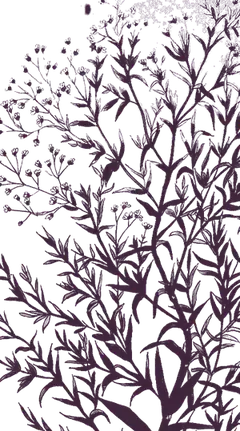
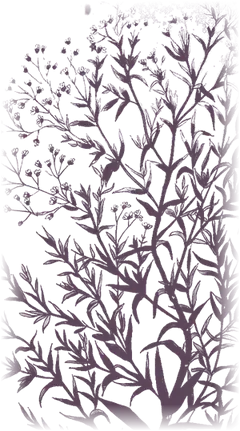
Fixer Wave 5: 13 dapatan judge dibaiki (deeplink clip, feed adaptif+hati async, focus trap inert, ros bebas butang, gutter desktop, sprig feather, chip nowrap, burst watercolor, ogImage baru, rsvp botani, lining-nums, kaunter hati, cover bl)

diff --git a/landing.js b/landing.js
@@ -182,6 +182,10 @@ function svgIkon(jenis) {
     // ditambah. Dulu: smooth-scroll ke 8px SELEPAS fade bermula = gerakan skrol
     // kelihatan bertindih dengan crossfade, salah satu punca rasa "mengejut".
     if (!adaHash) { try { window.scrollTo(0, 0); } catch (e) {} }
+    // Belt-and-braces deep-link: anchor-scroll asli browser boleh sempat menyimpan
+    // skrol tersembunyi DALAM .lp-kad (overflow) sebelum CSS clip terpakai; sifarkan
+    // supaya kiraan offsetTop di bawah tak tertolak ~1100px.
+    try { const kadEl = document.querySelector(".lp-kad"); if (kadEl) kadEl.scrollTop = 0; } catch (e) {}
     cover.classList.add("is-buka");
     // Buka gate urutan hero dramatik: CSS hero (.lp-buka .lp-hero...) hanya animate
     // SELEPAS ini, jadi nama zoom + tarikh main TEPAT bila cover naik, bukan di
@@ -243,19 +247,22 @@ function svgIkon(jenis) {
     //          menyusul (delay 600ms), hero nama zoom (gate .lp-buka). Settle ~3000ms.
     try { cover.classList.add("is-pecah"); } catch (e) {}
     // Gelombang 1 (segera): 10 bunga rapat, terbang laju (dur 2200ms, terbang ~58%).
+    // KENAPA semua aset watercolor (.lp-rb-*/.lp-bouquet-*), bukan floret vektor
+    // .bunga--*: atas mauve gelap floret flat baca macam sticker kartun sebelah
+    // watercolor (dapatan judge visual) - satu bahasa visual sahaja dalam burst.
     taburGelombang({
       n: 10, jMin: 130, jSpan: 130, szMin: 18, szSpan: 16,
       dur: 2200, delayBase: 0, stagger: 20,
-      aset: ["bunga--aBright", "bunga--bBright", "bunga--aRose", "bunga--bRose", "lp-bouquet-a",
-             "bunga--aMid", "bunga--bMid", "lp-bouquet-b", "bunga--bBright", "bunga--aRose"]
+      aset: ["lp-rb-blush", "lp-rb-poppy", "lp-rb-regalis", "lp-rb-clematis", "lp-bouquet-a",
+             "lp-rb-rosburg", "lp-rb-babys", "lp-bouquet-b", "lp-rb-blush", "lp-rb-poppy"]
     });
     // Gelombang 2 (180ms): 24 bunga jauh sampai tepi, terbang ~1500ms, tahan penuh.
     window.setTimeout(function () {
       taburGelombang({
         n: 24, jMin: 260, jSpan: 200, szMin: 20, szSpan: 36,
         dur: 2600, delayBase: 0, stagger: 14,
-        aset: ["bunga--aBright", "bunga--bBright", "bunga--aMid", "bunga--bMid", "bunga--aRose",
-               "bunga--bRose", "bunga--aDeep", "bunga--bDeep", "lp-bouquet-a", "lp-bouquet-b"]
+        aset: ["lp-rb-blush", "lp-rb-poppy", "lp-rb-regalis", "lp-rb-rosburg", "lp-rb-clematis",
+               "lp-rb-babys", "lp-rb-bouquet3", "lp-rb-regalis", "lp-bouquet-a", "lp-bouquet-b"]
       });
     }, 180);
     // Momen penuh dahulu, kad masuk pada 1800ms (boleh dipintas tap kedua).
@@ -642,17 +649,22 @@ muzikApi = (function muzikInit() {
     if (!papar.length) return;   // tiada ucapan: feed kekal hidden, seksyen masih lengkap
 
     // Tally ♥ dari /sayang: satu dokumen = satu like (corak sama ucapan.js, cuma
-    // one-shot getDocs sebab landing tak perlu realtime). Gagal tally = feed tetap
-    // jalan tanpa kiraan (jangan korbankan feed kerana kaunter hiasan).
-    const sayangKira = new Map();
-    try {
-      const semuaSayang = await hadMasa(getDocs(collection(db, "sayang")), 8000);
-      semuaSayang.forEach(function (d) {
-        const id = (d.data() || {}).ucapanId;
-        if (!id) return;
-        sayangKira.set(id, (sayangKira.get(id) || 0) + 1);
-      });
-    } catch (e) { console.error("Gagal tally sayang:", e); }
+    // one-shot getDocs sebab landing tak perlu realtime). KENAPA TIDAK di-await
+    // sebelum render: getDocs kedua ini kerap tergantung di WebKit (webchannel),
+    // dan menunggunya melewatkan feed 8+ saat pada ~separuh muatan iPhone. Kad
+    // dirender DULU, ♥ ditampal kemudian bila tally tiba (kaunter hiasan sahaja,
+    // timeout pendek 3s pun cukup).
+    const janjiSayang = hadMasa(getDocs(collection(db, "sayang")), 3000)
+      .then(function (semuaSayang) {
+        const kira = new Map();
+        semuaSayang.forEach(function (d) {
+          const id = (d.data() || {}).ucapanId;
+          if (!id) return;
+          kira.set(id, (kira.get(id) || 0) + 1);
+        });
+        return kira;
+      })
+      .catch(function (e) { console.error("Gagal tally sayang:", e); return new Map(); });
 
     senarai.innerHTML = "";
     papar.forEach(function (u, i) {
@@ -673,19 +685,25 @@ muzikApi = (function muzikInit() {
       nama.className = "lp-buku-nama";
       nama.textContent = u.nama;             // XSS selamat
       bawah.appendChild(nama);
-      const kira = sayangKira.get(u.id) || 0;
-      if (kira > 0) {                        // sorok bila 0: kad tanpa like kekal bersih
-        const sayang = document.createElement("span");
-        sayang.className = "lp-buku-sayang";
-        sayang.textContent = "♥ " + kira;
-        sayang.setAttribute("aria-label", kira + " tanda sayang");
-        bawah.appendChild(sayang);
-      }
+      bawah.dataset.ucapanId = u.id;         // sasaran tampalan ♥ selepas tally tiba
       kad.append(teks, bawah);
       senarai.appendChild(kad);
     });
     viewport.hidden = false;
     autoSkrol(viewport);
+
+    // Tampal ♥ secara async: kad dah kelihatan, kaunter menyusul tanpa melewatkan feed.
+    janjiSayang.then(function (sayangKira) {
+      senarai.querySelectorAll(".lp-buku-bawah").forEach(function (bawah) {
+        const kira = sayangKira.get(bawah.dataset.ucapanId) || 0;
+        if (kira <= 0) return;               // sorok bila 0: kad tanpa like kekal bersih
+        const sayang = document.createElement("span");
+        sayang.className = "lp-buku-sayang";
+        sayang.textContent = "♥ " + kira;
+        sayang.setAttribute("aria-label", kira + " tanda sayang");
+        bawah.appendChild(sayang);
+      });
+    });
   }
 
   // ---- Auto-scroll dalam bekas: rAF + scrollTop (bukan CSS translate) supaya user
@@ -819,6 +837,20 @@ muzikApi = (function muzikInit() {
 // X/overlay/Esc/postMessage pula memanggil history.back() untuk MENGGUGURKAN entri itu,
 // supaya buka-tutup berulang TIDAK menimbun entri (satu entri hidup pada satu masa).
 // Defensif sepenuhnya (semua akses history dibalut try/catch).
+// FOCUS TRAP lewat inert: aria-modal sahaja TIDAK menghalang Tab dari lari ke latar
+// (diukur 4-6 tekanan Tab bocor keluar modal). inert pada latar = fokus + klik + AT
+// semuanya terkunci dalam modal; pulih bila tutup. Defensif: elemen tiada -> senyap.
+function latarInert(on) {
+  ["lpKad", "lpDock", "lpMuzik"].forEach(function (id) {
+    try {
+      const el = document.getElementById(id);
+      if (!el) return;
+      if (on) el.setAttribute("inert", "");
+      else el.removeAttribute("inert");
+    } catch (e) {}
+  });
+}
+
 const modalHistory = (function () {
   let tutupAktif = null;   // fungsi tutup(true) modal yang sedang terbuka (dipanggil bila Back)
   let adaEntri = false;    // sudah pushState entri milik kita?
@@ -881,6 +913,7 @@ const modalHistory = (function () {
     }
     modal.hidden = false;
     kunciSkrol(true);
+    latarInert(true);   // trap fokus: latar inert, Tab berputar dalam modal sahaja
     // Tambah is-buka pada frame seterusnya supaya transition (fade + naik) main,
     // bukan lompat. Reduced-motion: CSS matikan transition -> muncul terus.
     requestAnimationFrame(function () { modal.classList.add("is-buka"); });
@@ -894,6 +927,7 @@ const modalHistory = (function () {
     sedangBuka = false;
     modal.classList.remove("is-buka");
     kunciSkrol(false);
+    latarInert(false);
     // Sorok sepenuhnya selepas transition (elak modal invisible masih tangkap klik).
     if (REDUCED.matches) { modal.hidden = true; }
     else { window.setTimeout(function () { if (!sedangBuka) modal.hidden = true; }, 260); }
@@ -971,6 +1005,7 @@ const modalHistory = (function () {
     pencetus = dari || pencetusEls[0];
     modal.hidden = false;
     kunciSkrol(true);
+    latarInert(true);   // trap fokus: latar inert, Tab berputar dalam modal sahaja
     // Tambah is-buka frame seterusnya supaya fade + naik main (reduced-motion: CSS
     // matikan transition -> muncul terus).
     requestAnimationFrame(function () { modal.classList.add("is-buka"); });
@@ -983,6 +1018,7 @@ const modalHistory = (function () {
     sedangBuka = false;
     modal.classList.remove("is-buka");
     kunciSkrol(false);
+    latarInert(false);  // WAJIB sebelum focus(): pencetus Salam Kaut duduk DALAM lpKad yang inert
     if (REDUCED.matches) { modal.hidden = true; }
     else { window.setTimeout(function () { if (!sedangBuka) modal.hidden = true; }, 260); }
     if (!fromPop) modalHistory.tutupSelesai();

diff --git a/landing.css b/landing.css
@@ -76,7 +76,12 @@ body.lp::before { display: none !important; }
     radial-gradient(120% 60% at 50% 0%, #ffffff 0%, transparent 42%),
     var(--lp-noise);
   padding: 0 var(--space-6) calc(env(safe-area-inset-bottom, 0px) + 120px);
-  overflow: hidden;   /* pastikan hiasan dalam kad tak terkeluar */
+  /* KENAPA dua nilai: hidden menjadikan kad SCROLL CONTAINER tersembunyi; anchor-scroll
+     asli browser pada deep-link hash menyimpan skrol ~1100px DALAM kad lalu semua
+     kandungan teranjak ke atas. clip memotong hiasan TANPA boleh discroll langsung;
+     hidden kekal sebagai fallback pelayar lama yang tak kenal clip. */
+  overflow: hidden;   /* pastikan hiasan dalam kad tak terkeluar (fallback) */
+  overflow: clip;
 }
 /* CAHAYA EMAS LEMBUT BERGERAK: lapisan sapuan emas sangat lembut atas kad, menyapu
    perlahan (translate ulang-alik ~26s). z-index:-1 = di ATAS latar kraft/lilac tapi
@@ -598,7 +603,11 @@ body.lp::before { display: none !important; }
    supaya momentum tak melimpah jadi skrol halaman (kehendak user: "hanya dekat section
    dia je"). Mask fade atas/bawah buat kad masuk/keluar rasa melarut, bukan terpotong. */
 .lp-buku-viewport {
-  height: 360px;
+  /* KENAPA max-height, bukan height tetap: majlis baru sebar link = ucapan sikit;
+     tinggi tetap 360px meninggalkan lubang kosong ~500px dalam panel (nampak rosak).
+     max-height = bekas mengecut ikut kandungan bila kad sedikit, dan jadi tetingkap
+     360px yang boleh skrol hanya bila kandungan melebihinya. */
+  max-height: 360px;
   overflow-y: auto;
   overscroll-behavior: contain;
   -webkit-overflow-scrolling: touch;
@@ -894,7 +903,9 @@ html:not(.lp-js) .lp-muzik { display: none; }
    glyph emas nipis WAJIB bebas bunga (aduan user: bismillah tertutup bunga). */
 .lp-bunga-cover--tr  { top: -46px; right: -40px; width: min(30vw, 130px); height: min(40.6vw, 176px); transform: rotate(9deg) scaleX(-1); }
 .lp-bunga-cover--tr2 { top: 66px; right: 30px; width: 46px; height: 46px; opacity: 0.4; transform: rotate(-8deg); }
-.lp-bunga-cover--bl  { bottom: -22px; left: -20px; width: min(42vw, 185px); height: min(54vw, 238px); transform: rotate(-8deg); }
+/* Sedikit lebih kecil + ditolak keluar: hujung daun pernah gesel penjuru kotak
+   "Tekan untuk buka" di WebKit (render hairline berbeza sikit dari chromium). */
+.lp-bunga-cover--bl  { bottom: -30px; left: -26px; width: min(39vw, 172px); height: min(50vw, 221px); transform: rotate(-8deg); }
 .lp-bunga-cover--bl2 { bottom: 74px; left: 34px; width: 50px; height: 50px; opacity: 0.4; transform: rotate(150deg); }
 .lp-bunga-cover--tl { top: -22px; left: -20px; width: min(40vw, 175px); height: min(51.4vw, 225px); transform: rotate(-9deg); }
 .lp-bunga-cover--br { bottom: -22px; right: -20px; width: min(42vw, 185px); height: min(56.8vw, 250px); transform: rotate(8deg) scaleX(-1); }
@@ -1892,7 +1903,11 @@ button.lp-dock-btn {
 .lp-b-butiran      { top: auto; bottom: -24px; right: -26px; width: min(40vw, 172px); aspect-ratio: 400/495; opacity: 0.92; }
 .lp-b-atur-kanan   { top: auto; bottom: 10px; right: -18px; width: min(34vw, 132px); aspect-ratio: 300/448; opacity: 0.92; transform: rotate(6deg); }
 .lp-b-cd-kiri      { bottom: -10px; left: -16px; width: min(34vw, 128px); aspect-ratio: 280/460; opacity: 0.9; transform: rotate(-6deg); }
-.lp-b-buku         { top: auto; bottom: -16px; left: -20px; width: min(33vw, 128px); aspect-ratio: 300/425; opacity: 0.92; }
+.lp-b-buku         { top: auto; bottom: -16px; left: -20px; width: min(30vw, 118px); aspect-ratio: 300/425; opacity: 0.92; }
+/* KENAPA padding-bottom: ros regalis dilabuh di bucu bawah-kiri panel; tanpa zon
+   kosong ini ia menutup teks butang "Lihat Semua Ucapan" di 320px (butang hampir
+   penuh lebar). Zon kosong = ros duduk BAWAH baris butang di semua lebar. */
+.lp-buku { padding-bottom: 132px; }
 .lp-b-hubungi      { top: auto; bottom: 12px; right: -14px; width: min(30vw, 112px); aspect-ratio: 280/460; opacity: 0.88; transform: scaleX(-1) rotate(8deg); }
 .lp-b-lokasi       { top: auto; bottom: 40px; left: -14px; width: min(26vw, 100px); aspect-ratio: 240/327; opacity: 0.88; transform: rotate(-3deg); }
 .lp-b-salamkaut    { top: auto; bottom: -42px; right: -20px; width: min(23vw, 92px); aspect-ratio: 300/409; opacity: 0.92; transform: rotate(-4deg); }
@@ -1923,6 +1938,14 @@ button.lp-dock-btn {
 .lp-gb { position: fixed; opacity: 0.4; transform-origin: top center; }
 .lp-gb--kiri  { top: 92px;  right: calc(50% + 196px); width: 108px; aspect-ratio: 240/431; animation: lpSwayA 9s var(--ease-in-out) infinite; }
 .lp-gb--kanan { top: 150px; left:  calc(50% + 196px); width: 108px; aspect-ratio: 240/431; transform: scaleX(-1); animation: lpSwayB 11s var(--ease-in-out) infinite; }
+/* Anchor besar desktop (dapatan judge: gutter tandus selepas sage dibuang). Menjenguk
+   dari BELAKANG kad (right/left ~50%+17Xpx < separuh lebar kad 215px, z-index 0 vs kad 1)
+   = resipi "peek" yang sama dengan etching panel. Statik (tiada sway): kepingan besar
+   yang bergoyang di tepi mata jadi distraksi, sprig kecil sahaja yang bernafas. */
+.lp-gb--kiri2  { top: 34vh; right: calc(50% + 172px); width: 212px; aspect-ratio: 800/1029; opacity: 0.55; transform: rotate(-7deg); }
+.lp-gb--kanan2 { top: 56vh; left:  calc(50% + 170px); width: 202px; aspect-ratio: 400/495;  opacity: 0.55; transform: rotate(6deg) scaleX(-1); }
+.lp-gb--kiri3  { top: 78vh; right: calc(50% + 178px); width: 158px; aspect-ratio: 300/448;  opacity: 0.5;  transform: rotate(-4deg); }
+.lp-gb--kanan3 { top: 6vh;  left:  calc(50% + 180px); width: 148px; aspect-ratio: 300/409;  opacity: 0.5;  transform: rotate(9deg); }
 @keyframes lpSwayA { 0%,100% { transform: rotate(-1.3deg); } 50% { transform: rotate(1.3deg); } }
 @keyframes lpSwayB { 0%,100% { transform: scaleX(-1) rotate(-1.2deg); } 50% { transform: scaleX(-1) rotate(1.2deg); } }
 

diff --git a/rsvp.html b/rsvp.html
@@ -22,7 +22,7 @@
   <link rel="preconnect" href="https://fonts.googleapis.com" />
   <link rel="preconnect" href="https://fonts.gstatic.com" crossorigin />
   <link href="https://fonts.googleapis.com/css2?family=Great+Vibes&family=Cormorant+Garamond:ital,wght@0,400;0,500;0,600;0,700;1,400;1,500&display=swap" rel="stylesheet" />
-  <link rel="stylesheet" href="./styles.css?v=20260815d" />
+  <link rel="stylesheet" href="./styles.css?v=20260815e" />
 
   <!-- Mod embed (?embed=1): bila rsvp.html dimuat dalam modal iframe laman jemputan,
        tambah kelas pada <html> SEGERAK (elak flash hero sebelum dimampatkan) untuk
@@ -84,9 +84,29 @@
        yang memilih laluan oklch pada token LAIN (maroon/ink/line dll dikira dalam oklch),
        kita biar token surface ini kekal hex , hex lilac ini adalah nilai muktamad yang
        dikehendaki, konsisten dengan blok tema lilac landing.css. */
+
+    /* ============ ANCHOR BOTANI (bahasa design landing di halaman borang) ============
+       Dua sentuhan watercolor sahaja, di margin, JAUH dari borang (teks mesti menang).
+       Disorok dalam mod embed: modal iframe sempit, hiasan jadi bising di situ. */
+    .rsvp-botani {
+      position: fixed; z-index: 0; pointer-events: none;
+      background-repeat: no-repeat; background-position: center; background-size: contain;
+    }
+    .rsvp-botani--atas {
+      top: -18px; right: -22px; width: min(34vw, 150px); aspect-ratio: 300/409;
+      background-image: url("./aset/bunga/botBlush.webp"); opacity: 0.85; transform: rotate(8deg) scaleX(-1);
+    }
+    .rsvp-botani--bawah {
+      bottom: -14px; left: -16px; width: min(24vw, 96px); aspect-ratio: 240/327;
+      background-image: url("./aset/bunga/sprigClematis.webp"); opacity: 0.7; transform: rotate(-4deg);
+    }
+    html.rsvp-embed .rsvp-botani { display: none; }
+    .wrap { position: relative; z-index: 1; }   /* kandungan borang sentiasa atas hiasan */
   </style>
 </head>
 <body>
+  <span class="rsvp-botani rsvp-botani--atas" aria-hidden="true"></span>
+  <span class="rsvp-botani rsvp-botani--bawah" aria-hidden="true"></span>
   <main class="wrap">
 
     <!-- Notis kalau tetapan Firebase belum diisi -->
@@ -213,6 +233,6 @@
     } catch (e) {}
   </script>
 
-  <script type="module" src="./app.js?v=20260815d"></script>
+  <script type="module" src="./app.js?v=20260815e"></script>
 </body>
 </html>

diff --git a/index.html b/index.html
@@ -35,8 +35,8 @@
        feed ucapan terbiar kosong. Sebab tu SEMUA pasangan HTML+JS/CSS guna query ?v=,
        dan nilai v WAJIB ditukar pada SETIAP commit yang mengubah pasangan tersebut
        (semua halaman awam: index, rsvp, ucapan, pengantin). -->
-  <link rel="stylesheet" href="./styles.css?v=20260815d" />
-  <link rel="stylesheet" href="./landing.css?v=20260815d" />
+  <link rel="stylesheet" href="./styles.css?v=20260815e" />
+  <link rel="stylesheet" href="./landing.css?v=20260815e" />
   <!-- KENAPA preload: bouquet dipakai oleh burst cover yang tercetus SERTA-MERTA pada
        gesture tap; tanpa preload, webp belum cache = taburan jadi kotak kosong.
        Font basmala (Aref Ruqaa subset arab, hos sendiri, lesen SIL OFL) pun dipreload
@@ -92,6 +92,12 @@
   <div class="lp-gutter-botani" aria-hidden="true">
     <span class="lp-botani lp-gb lp-gb--kiri lp-rb-babys"></span>
     <span class="lp-botani lp-gb lp-gb--kanan lp-rb-babys"></span>
+    <!-- Anchor besar desktop: selepas sage dibuang, gutter mauve >=1024 jadi hamparan
+         kosong (dapatan judge visual); bunga menjenguk dari belakang kad, selang sisi. -->
+    <span class="lp-botani lp-gb lp-gb--kanan3 lp-rb-blush"></span>
+    <span class="lp-botani lp-gb lp-gb--kiri2 lp-bouquet-a"></span>
+    <span class="lp-botani lp-gb lp-gb--kanan2 lp-rb-bouquet3"></span>
+    <span class="lp-botani lp-gb lp-gb--kiri3 lp-rb-rosburg"></span>
   </div>
 
   <!-- ============ COVER (sampul, tekan untuk buka) ============
@@ -526,6 +532,6 @@
     </div>
   </div>
 
-  <script type="module" src="./landing.js?v=20260815d"></script>
+  <script type="module" src="./landing.js?v=20260815e"></script>
 </body>
 </html>

diff --git a/styles.css b/styles.css
@@ -840,7 +840,10 @@ button.pautan-halus:hover { border-bottom-color: var(--color-maroon); }
   border-radius: var(--radius-md);
   padding: var(--space-6) var(--space-4);
 }
-.stat-nombor { font-size: var(--text-2xl); font-weight: 600; color: var(--color-maroon); line-height: 1; }
+.stat-nombor {
+  font-size: var(--text-2xl); font-weight: 600; color: var(--color-maroon); line-height: 1;
+  font-variant-numeric: lining-nums;   /* angka old-style Cormorant buat "1" nampak macam "I" */
+}
 .stat-label { display: block; margin-top: var(--space-3); font-size: var(--text-xs); letter-spacing: 0.08em; text-transform: uppercase; color: var(--color-ink-soft); }
 
 .jadual { width: 100%; border-collapse: collapse; font-size: var(--text-sm); }
@@ -854,6 +857,7 @@ button.pautan-halus:hover { border-bottom-color: var(--color-maroon); }
   border-radius: 999px;
   font-size: var(--text-xs);
   font-weight: 600;
+  white-space: nowrap;   /* sel jadual sempit pernah patahkan "Tidak" jadi "Tida k" */
 }
 .pil-hadir { background: color-mix(in oklch, var(--color-gold) 40%, var(--color-cream)); color: var(--color-maroon); }
 .pil-tidak { background: color-mix(in oklch, var(--color-line) 30%, var(--color-cream)); color: var(--color-ink-soft); }

diff --git a/ucapan.html b/ucapan.html
@@ -22,7 +22,7 @@
   <link rel="preconnect" href="https://fonts.googleapis.com" />
   <link rel="preconnect" href="https://fonts.gstatic.com" crossorigin />
   <link href="https://fonts.googleapis.com/css2?family=Great+Vibes&family=Cormorant+Garamond:ital,wght@0,400;0,500;0,600;0,700;1,400;1,500&display=swap" rel="stylesheet" />
-  <link rel="stylesheet" href="./styles.css?v=20260815d" />
+  <link rel="stylesheet" href="./styles.css?v=20260815e" />
   <style>
     /* TEMA LILAC (samakan dengan rsvp.html + landing): identiti laman kini lilac
        default, tetamu tiba di sini dari landing/dock/modal yang semuanya lilac,
@@ -148,6 +148,6 @@
     <footer class="footer">Khadizah &amp; Anwar &middot; 30 Ogos 2026</footer>
   </main>
 
-  <script type="module" src="./ucapan.js?v=20260815d"></script>
+  <script type="module" src="./ucapan.js?v=20260815e"></script>
 </body>
 </html>

diff --git a/pengantin.html b/pengantin.html
@@ -8,7 +8,7 @@
   <link rel="preconnect" href="https://fonts.googleapis.com" />
   <link rel="preconnect" href="https://fonts.gstatic.com" crossorigin />
   <link href="https://fonts.googleapis.com/css2?family=Great+Vibes&family=Cormorant+Garamond:ital,wght@0,400;0,500;0,600;0,700;1,400;1,500&display=swap" rel="stylesheet" />
-  <link rel="stylesheet" href="./styles.css?v=20260815d" />
+  <link rel="stylesheet" href="./styles.css?v=20260815e" />
   <style>
     /* TEMA LILAC (samakan dengan rsvp.html/ucapan.html): papan pengantin ikut
        keluarga warna lilac yang sama, override 4 token surface sahaja. */
@@ -86,6 +86,6 @@
 
   </main>
 
-  <script type="module" src="./pengantin.js?v=20260815d"></script>
+  <script type="module" src="./pengantin.js?v=20260815e"></script>
 </body>
 </html>

diff --git a/ucapan.js b/ucapan.js
@@ -218,7 +218,8 @@ function lukisKaunter() {
   if (nUcap === 0) { dindingKaunter.hidden = true; return; }
   let nSayang = 0; sayangKira.forEach(function (v) { nSayang += v; });
   dindingKaunter.hidden = false;
-  dindingKaunter.textContent = nUcap + " ucapan" + (nSayang > 0 ? " · " + nSayang + " like" : "");
+  // "♥" bukan "like": seluruh sistem panggil benda ni ♥/sayang, jangan campur bahasa.
+  dindingKaunter.textContent = nUcap + " ucapan" + (nSayang > 0 ? " · " + nSayang + " ♥" : "");
 }
 
 // Heart-burst: 4-6 hati kecil naik + pudar. CSS transform, node auto-buang,
